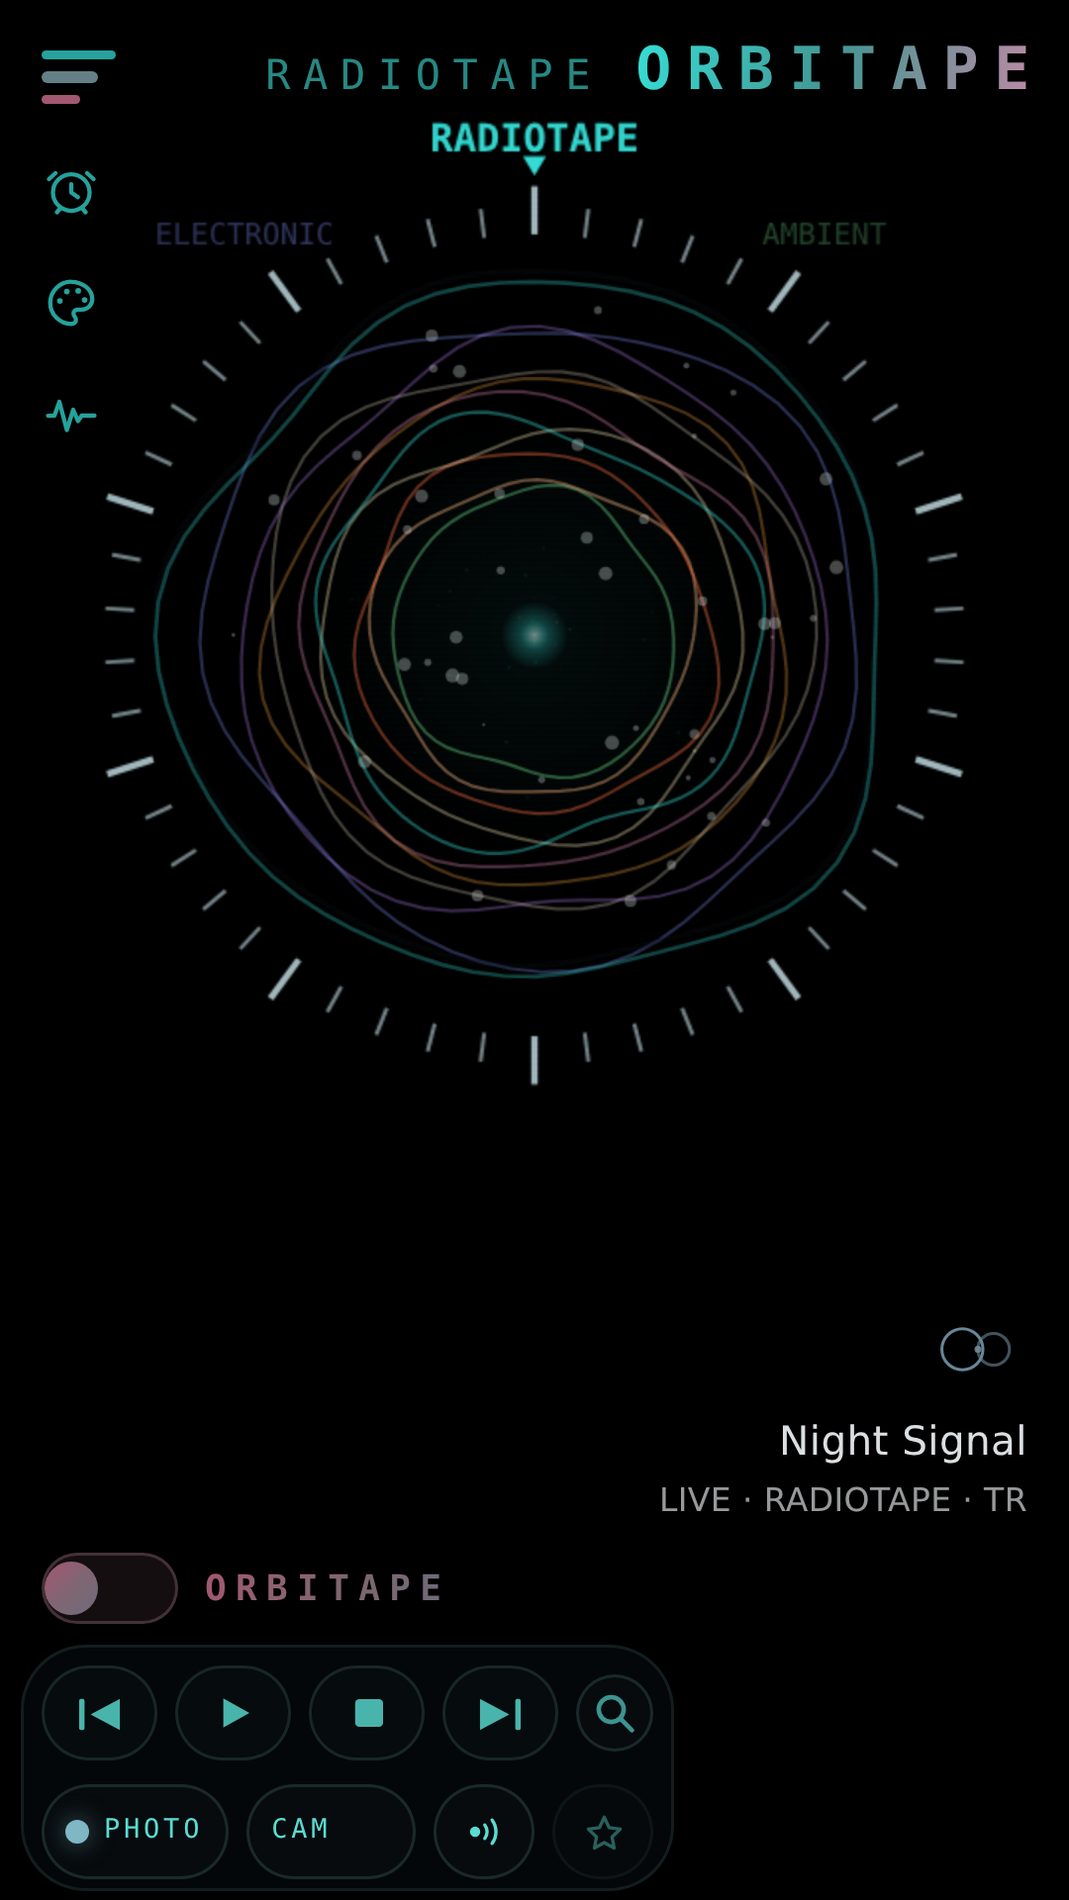
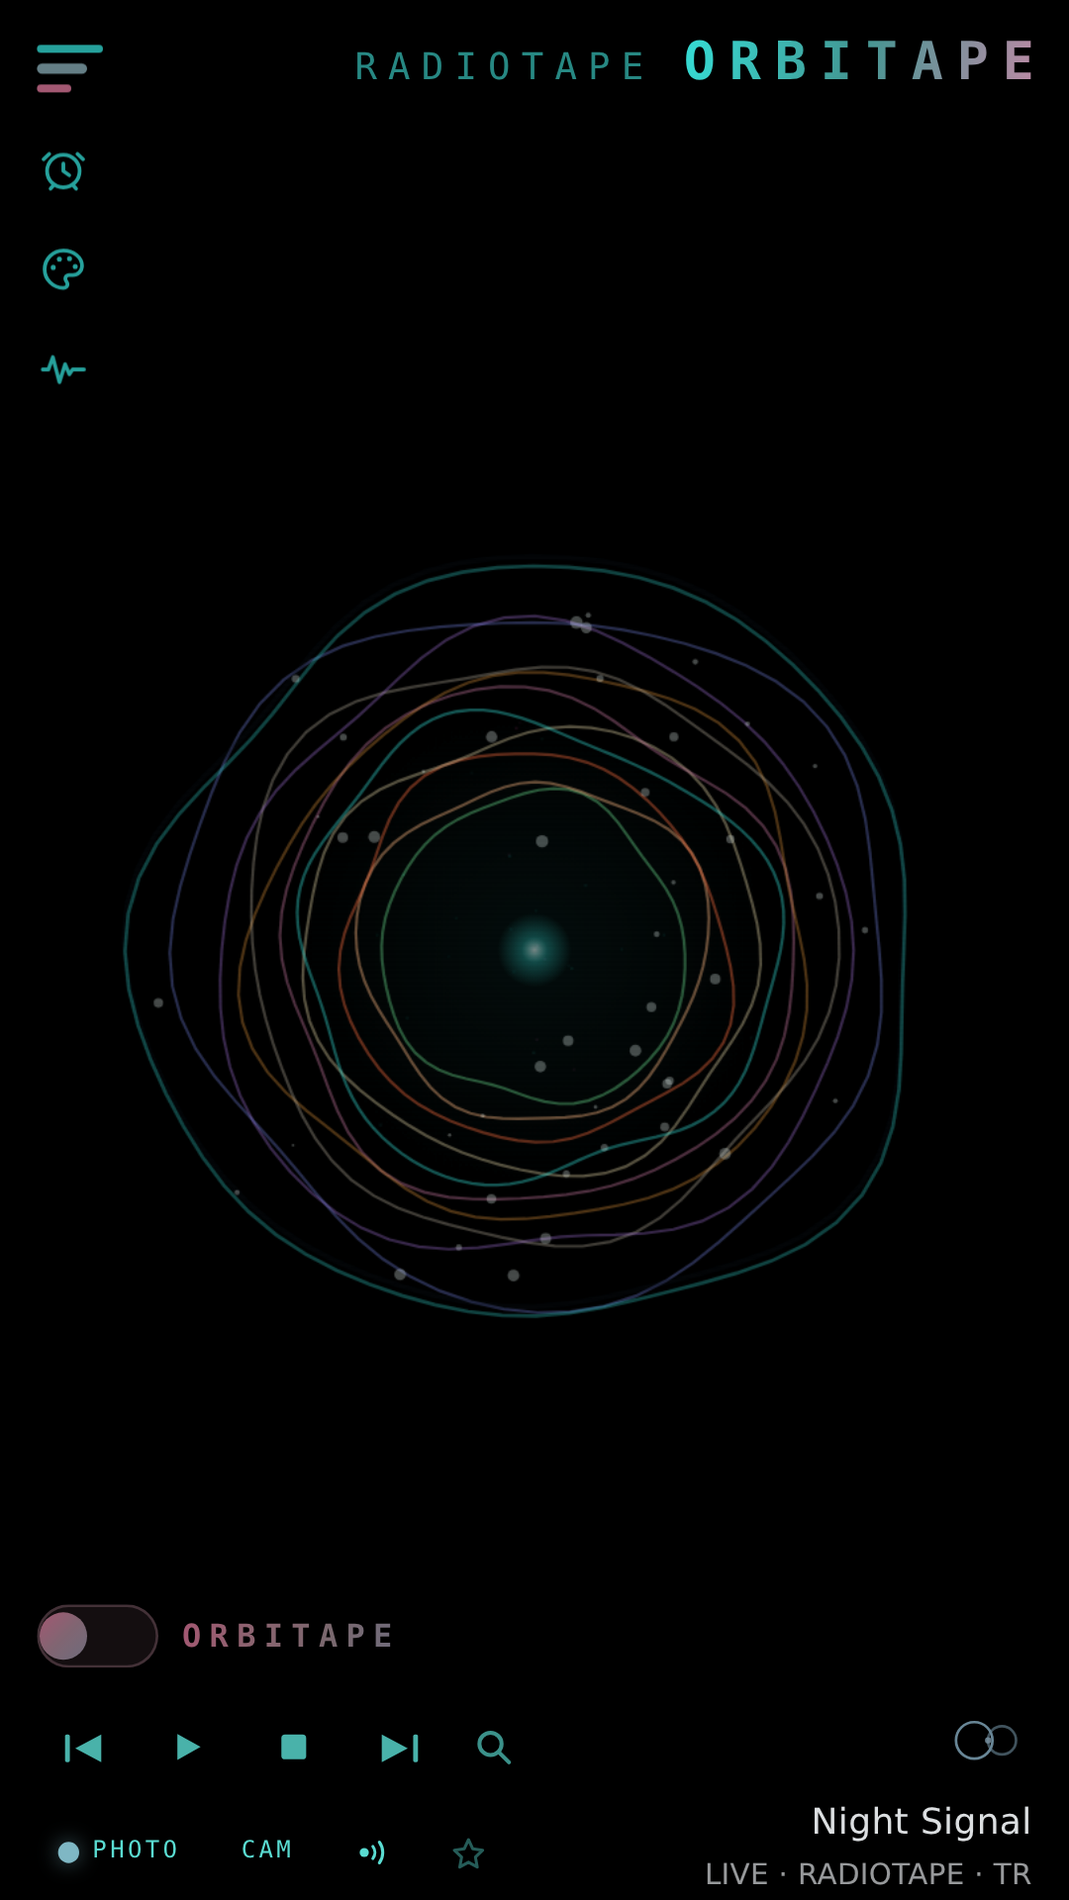
Aramada basilan satir, klavyede sabit alet, serit acilis
1. ARAMADAN SECIM CALISMIYORDU
   "Sarkiya basinca da hala duruyor." Karar parmagin KALKTIGI yerdeki
   satira bakiyordu; telefonda ilk dokunus klavyeyi kapatiyor, panel
   asagi kayiyor ve parmak baska satirda kalkiyor -- kosul tutmayinca
   hicbir sey olmuyordu. Artik karar BASILAN satirin (kaydirma
   degilse).

2. KLAVYE ACILINCA ALET KACIYORDU
   "Arama acilinca halka yukari kaciyor, cark daha da garip."
   iOS'ta klavye 100dvh'yi kuculttugu icin diskin boy tavani dusuyor
   ve bandin ortasi yukari kayiyordu. body.klavye altinda olcu
   100vh'ye baglandi. Telefonda dogrulanmali.

3. SKINS ONCE SERIT ACILIYOR
   "Ilk o kucuk penceremiz acilsin; sol kosesinde asagiya bir ok
   olsa." Panel serit olarak aciliyor, soldaki ▾ listeyi getiriyor.
   Serit arkasini KILITLEMIYOR -- pencereAc inert yapiyordu, bu kipte
   yanlisti.

4. MAGAZA KARELERI YENIDEN
   Sahneler: ana arayuz (halka), cark, skins, LILIES, CUTOUT, FX,
   uzaya acilma, HUMANS. Olcu 360x640 -> 405x720: 360'ta kunyeye
   118px'den az yer kalinca uygulama yigilma kipine geciyor ve alet
   220px yukari kayiyordu -- gercek telefonlarda o dal calismiyor.
   Cikti yine 1080x1920.

5. HAM BOY TAVANI 1105 -> 1110 KB
   Olculen sey kaynak dosya; kullaniciya inen brotli olcusu tavanin
   bin bayt altinda.

TESTLER: 756/756 · 18 · 111 · 19 · 118 · 19 — hepsi temiz.

diff --git a/araclar/galeri.js b/araclar/galeri.js
@@ -44,7 +44,19 @@ const TON   = fs.readFileSync(path.join(KOK, 'test', 'ton.wav'));
    adlarla ayri bir klasore yaziyor -- yanlis kare yuklenmesin diye
    secim burada, konsolda degil. */
 const OLCU_TABLO = {
-  telefon:  { w:360, h:640,  dsf:3, ek:'' },
+  /* ── 9 EYLUL: 360x640 -> 540x960 ─────────────────────────────
+     Ikisi de 1080x1920 uretiyor (Play 9:16 istiyor). Fark sunda:
+     360 genisliginde sag alt kunyeye 118px'den az yer kaliyor ve
+     uygulama HAKLI olarak yigilma kipine geciyor -- o kipte alet
+     220px yukari kayiyor. Gercek telefonlar 9:19.5, yani orada bu
+     dal hic calismiyor; magaza karesi olmayan bir hali gosteriyordu
+     (kullanicinin sozu: "halkayi uste kaymis sekilde aliyorsun,
+     hep bu hatali"). 540'ta kunye yan yana sigiyor ve alet ekranin
+     ortasinda -- kullanicinin telefonunda gordugu hal.
+     540 de denendi: yiginma yok ama disk 380px tavaninda kalinca
+     1080'lik karede kucuk duruyordu. 405'te disk 84vw = 340 ve
+     kareyi dolduruyor; dsf 8/3 ile cikti yine tam 1080x1920. */
+  telefon:  { w:405, h:720,  dsf:8/3, ek:'' },
   tablet7:  { w:600, h:960,  dsf:2, ek:'-tablet7' },
   tablet10: { w:800, h:1280, dsf:2, ek:'-tablet10' }
 };
@@ -306,7 +318,10 @@ for(const [dosya, raf, ad, ulke] of RAF_RADYO){
     dosya: dosya + '.png', mood:false,
     kunye:{ ad:ad, alt:'LIVE · ' + raf + ' · ' + ulke, kaynak:'', lisans:'' },
     veri: raf,
+    /* ANA ARAYUZ HALKAYLA: magazadaki ilk kare uygulamanin kendi
+       yuzu olmali. Cark ayri bir kare (22-cark). */
     kur:(r)=>{ try{ aileSec(r, true); }catch(e){}
+               try{ AYAR.merkez = 'halka'; if(window.merkezUygula) merkezUygula(); }catch(e){}
                try{ const n=document.getElementById('npUst'); if(n) n.classList.remove('var'); }catch(e){} }
   });
 }
@@ -388,19 +403,43 @@ SAHNELER.push({
    fx lemeler vs." Galeride ne deri ne frekans karesi vardi --
    uygulamanin en cok konusulan iki yuzu magazada hic gorunmuyordu.
    Ucu de radyo tarafinda: nebula yok. */
+/* GALERI ASAGI KAYDIRILIYOR. Kullanicinin sozu: "skinsler
+   alttakiler olsun." Ust sirada OFF/PAPER/LINEN gibi duz renkler
+   var; magazada gosterilecek olan asagidaki cizimli deriler. */
 SAHNELER.push({
-  dosya:'10-skins.png', mood:false, npGizle:true, bekle:1400,
-  kur:()=>{ try{ const f=document.getElementById('deriFirca'); if(f) f.click(); }catch(e){} }
+  dosya:'10-skins.png', mood:false, npGizle:true, bekle:1800,
+  kur:()=>{ try{ const f=document.getElementById('deriFirca'); if(f) f.click(); }catch(e){} },
+  eylem: async function(p){
+    await p.waitForTimeout(900);
+    await p.evaluate(()=>{ const g=document.querySelector('.dg-izgara');
+      if(g) g.scrollTop = Math.max(0, g.scrollHeight - g.clientHeight - 40); });
+    await p.waitForTimeout(1200);
+  }
 });
-SAHNELER.push({
-  dosya:'11-deri.png', mood:false, bekle:1400,
-  kunye:{ ad:'Slow Horizon', alt:'LIVE · AMBIENT · NL', kaynak:'', lisans:'' },
-  /* FIELDS: duz renkli degil ama sakin bir tablo -- diskin kendisi
-     kompozisyonun merkezi oldugu icin magazada anlatilacak sey de
-     bu. Halka o derilerde zaten acilmiyor. */
-  kur:()=>{ try{ AYAR.deri = 57; deriUygula();
-                 if(window.merkezUygula) merkezUygula(); }catch(e){} }
-});
+/* ── UYGULANMIS DERILER: DUZ RENKLILER ────────────────────────
+   Kullanicinin sozu: "skinsler secilmis 1-3 ornek, tek renk
+   olanlardan yukardaki mavi yesil pembe." Galerinin ust sirasindaki
+   duz renk deriler; disk bu derilerde tek renk bir daire oluyor ve
+   arayuzun tamami o renge donuyor -- magazada anlatilacak sey bu. */
+for(const [dosya, no, ad, alt] of [
+      ['11-deri-sky',   5, 'Slow Horizon',  'LIVE · AMBIENT · NL'],
+      ['11-deri-mint',  7, 'Velvet Hours',  'LIVE · LOUNGE & LOFI · FR'],
+      ['11-deri-blush', 8, 'Night Signal',  'LIVE · RADIOTAPE · TR']]){
+  SAHNELER.push({
+    dosya: dosya + '.png', mood:false, bekle:1400,
+    kunye:{ ad:ad, alt:alt, kaynak:'', lisans:'' },
+    /* NO 'veri' ILE GECIYOR: kur() sayfaya SERILESTIRILEREK
+       gonderiliyor, kapanis (closure) degiskeni yolda kayboluyor --
+       ilk yazimda AYAR.deri undefined oluyordu ve uc kare de duz
+       karanlik ciktu. */
+    veri: no,
+    /* DUZ RENK DERIDE MERKEZ 'YUVARLAK': uygulamada bu derilerde
+       galeri diskle aciliyor ve disk kompozisyonun merkezi. Halka
+       birakilirsa acik zemin uzerinde soluk kaliyor. */
+    kur:(n)=>{ try{ AYAR.deri = n; AYAR.merkez = 'yuvarlak'; deriUygula();
+                    if(window.merkezUygula) merkezUygula(); }catch(e){} }
+  });
+}
 SAHNELER.push({
   dosya:'12-frekans.png', mood:false, bekle:1400,
   kunye:{ ad:'Deep Techno', alt:'LIVE · ELECTRONIC · DE', kaynak:'', lisans:'' },
@@ -408,23 +447,92 @@ SAHNELER.push({
                  if(window.merkezUygula) merkezUygula(); }catch(e){} }
 });
 
+
+/* ── 9 EYLUL: MAGAZA ICIN YENI KARELER ────────────────────────────
+   Kullanicinin istegi: "cicekli skins olsun, fx kismi, yildiz
+   buyutme, cark radyo kanallari, HUMANS vs cesit, tatlili skinsler,
+   circle'li. Bir ana arayuz olsun sonra cesitler. Tutorials'li
+   olmasin sakin." */
+SAHNELER.push({
+  dosya:'22-cark.png', mood:false, bekle:1400,
+  kunye:{ ad:'Night Signal', alt:'LIVE · RADIOTAPE · TR', kaynak:'', lisans:'' },
+  kur:()=>{ try{ AYAR.merkez = 'cark'; if(window.merkezUygula) merkezUygula();
+                 if(window.carkTazele) carkTazele(); }catch(e){} }
+});
+SAHNELER.push({
+  dosya:'23-deri-lilies.png', mood:false, bekle:1800,
+  kunye:{ ad:'Slow Horizon', alt:'LIVE · AMBIENT · NL', kaynak:'', lisans:'' },
+  veri: 56,
+  kur:(n)=>{ try{ AYAR.deri = n; AYAR.merkez = 'yuvarlak'; deriUygula();
+                  if(window.merkezUygula) merkezUygula(); }catch(e){} }
+});
+SAHNELER.push({
+  dosya:'24-deri-cutout.png', mood:false, bekle:1800,
+  kunye:{ ad:'Velvet Hours', alt:'LIVE · LOUNGE & LOFI · FR', kaynak:'', lisans:'' },
+  veri: 58,
+  kur:(n)=>{ try{ AYAR.deri = n; AYAR.merkez = 'yuvarlak'; deriUygula();
+                  if(window.merkezUygula) merkezUygula(); }catch(e){} }
+});
+/* Yildizlar en ust kademede: ekran uzaya aciliyor (bkz. body.uzay). */
+/* Gecisin ORTASI yakalaniyor: deri hala hafif goruluyor, arkasi
+   uzaya acilmis. Bitmis hali duz karanlik ve anlatmiyor. */
+SAHNELER.push({
+  dosya:'25-uzay.png', mood:false, bekle:2600,
+  kunye:{ ad:'Slow Horizon', alt:'LIVE · AMBIENT · NL', kaynak:'', lisans:'' },
+  kur:()=>{ try{ AYAR.deri = 56; AYAR.merkez = 'halka'; deriUygula();
+                 if(window.merkezUygula) merkezUygula(); }catch(e){}
+            try{ setTimeout(function(){ AYAR.yildiz = 4; AYAR.yildizIsik = 2;
+                 if(window.uzayUygula) uzayUygula(); }, 200); }catch(e){} }
+});
+
+/* ── ARAMA (BUYUTEC) ──────────────────────────────────────────────
+   Kullanicinin istegi: buyutece basilinca cikan istasyon listesinden
+   de bir kare. Havuz sahte ve kamu mali alan adlariyla dolu (bkz.
+   ADLAR) -- baskasinin markasi fotografa girmiyor. */
+SAHNELER.push({
+  dosya:'21-arama.png', mood:false, npGizle:true, bekle:600,
+  eylem: async function(p){
+    await p.evaluate(()=>{ try{ if(typeof araAc === 'function') araAc(); 
+      else { const b=document.getElementById('araCizgi'); if(b) b.click(); } }catch(e){} });
+    await p.waitForTimeout(700);
+    await p.evaluate(()=>{ const g=document.getElementById('araGiris');
+      if(g){ g.focus(); g.value='rain'; g.dispatchEvent(new Event('input',{bubbles:true})); } });
+    await p.waitForTimeout(1600);
+  }
+});
+
 const HEPSI = process.env.GALERI_HEPSI === '1';
+/* Tek tek kare kosmak icin: GALERI_SADECE=11-deri-sky.png,... */
+const SADECE = (process.env.GALERI_SADECE || '').split(',').filter(Boolean);
 /* MAGAZAYA GIDEN SEKIZ, sirasiyla: alet · bir tur · deri galerisi ·
    uygulanmis deri · frekans · FX · arsiv tarafi · nasil calisiyor.
    Sekiz kare bir hikaye anlatiyor; sekiz ayni carkin farkli rengi
    degil. FX ve arsiv karelerinde nebula var -- kullanici bir
    zamanlar nebulasiz istemisti ama FX'i acikca istedi, ve FX
    yalnizca o tarafta yasiyor. */
-const MAGAZA_SIRA = ['01-radyo-radiotape.png', '03-radyo-jazz.png',
-  '10-skins.png', '11-deri.png', '12-frekans.png',
-  '09-fx-ana.png', '15-arsiv-orbitape.png', '09-tur.png'];
+/* 8 Eylul: TUR KARESI CIKARILDI. Kullanicinin sozu: "tutorials
+   gorunmesin". Yerine ikinci bir FX karesi ve bir kanal karesi
+   geldi -- magazada anlatilan sey uygulamanin kendisi, ogretici
+   degil. */
+/* 8 Eylul, son hali:
+     - FREKANS karesi cikti: o secenek skins penceresinden kaldirildi
+       ("fazi yapamadin, sil lutfen"), artik secilemeyen bir sey
+       magazada gosterilmez.
+     - ARAMA karesi cikti: sonuc listesi GERCEK istasyon adlariyla
+       doluyor (Nature Radio, DrGnu ...) -- baskasinin markasi bizim
+       magaza gorselimizde duramaz.
+     - Yerlerine ucuncu duz renk deri ve arsiv tarafi geldi. */
+const MAGAZA_SIRA = ['01-radyo-radiotape.png', '22-cark.png',
+  '10-skins.png', '23-deri-lilies.png', '24-deri-cutout.png',
+  '09-fx-ana.png', '25-uzay.png', '19-arsiv-humans.png'];
 const SECIM = MAGAZA
   ? MAGAZA_SIRA.map((ad, i)=>{
       const s = SAHNELER.find(x=>x.dosya === ad);
       if(!s) throw new Error('magaza sahnesi yok: ' + ad);
       return Object.assign({}, s, { dosya: 'play-' + (i+1) + '-' + ad.replace(/^\d+-/, '') });
     })
-  : (HEPSI ? SAHNELER : SAHNELER.filter(s=>!s.mood));
+  : (SADECE.length ? SAHNELER.filter(s=>SADECE.includes(s.dosya))
+     : (HEPSI ? SAHNELER : SAHNELER.filter(s=>!s.mood)));
 
 (async()=>{
   fs.mkdirSync(CIKIS, {recursive:true});

diff --git a/test/saglik.js b/test/saglik.js
@@ -653,8 +653,14 @@ const yavas = (ad) => { atlanan.push(ad); return true; };
             f + ' ' + Math.round(bro(fs.readFileSync(_yayin(f)))/1024) + 'K').join(' + ')
            + ' (toplam ' + Math.round(_iuBoy/1024) + ' KB)')
         : 'istek uzerine inen modul yok');
-    /* 1100 -> 1105 KB: bkz. ILK_CIZIM_TAVAN notu. */
-    K('Ham boy < 1105 KB', dosyaBoy < 1105*1024,
+    /* 1100 -> 1105 -> 1110 KB. Bu olcu KAYNAK dosyanin boyu, yani
+       aciklamalar dahil; kullaniciya inen sey degil (o brotli olcusu
+       ve tavanin bin bayt altinda). 9 Eylul'de eklenen isler --
+       SOUNDS bolumu, uzay gecisi, galerinin serit acilmasi, klavye
+       acikken alet olcusu, aramada basilan satirin secilmesi -- ve
+       her birinin NEDEN yazisi bu dosyada duruyor. Tavan bir koruma;
+       islev eklenince yaziyla yukseltiliyor, sessizce degil. */
+    K('Ham boy < 1110 KB', dosyaBoy < 1110*1024,
       Math.round(dosyaBoy/1024) + ' KB kaynak, %'
       + Math.round(100 - br*100/dosyaBoy) + ' sikisiyor (aciklamalar dahil)');
   }
@@ -10173,6 +10179,15 @@ const yavas = (ad) => { atlanan.push(ad); return true; };
         c.geldi = !!window.DERI_GALERI_HAZIR;
         c.acik = !!(window.deriGaleriAcik && deriGaleriAcik());
         const kap = document.getElementById('deriGaleri');
+        /* 9 Eylul: GALERI ARTIK SERIT OLARAK ACILIYOR (kullanicinin
+           istegi: "ilk o kucuk penceremiz acilsin, isteyen listeyi
+           acar"). Izgara olculeri once listeyi acmayi gerektiriyor --
+           soldaki ▾ (dg-tus.buyut) tam da bunun icin var. */
+        c.seritAcildi = kap.classList.contains('serit');
+        const okTus = kap.querySelector('.dg-tus.buyut');
+        c.listeOku = !!okTus;
+        if(okTus){ okTus.click(); await bek(260); }
+        c.izgaraAcildi = !kap.classList.contains('serit');
         c.kareSayisi = kap ? kap.querySelectorAll('.dg-kare').length : 0;
         c.kareDogru = c.kareSayisi === DERILER.length + 1;
         /* kareler ust uste binmiyor: ikinci karenin tepesi birincinin altindan sonra */
@@ -10327,11 +10342,17 @@ const yavas = (ad) => { atlanan.push(ad); return true; };
         /* FIRCA ANAHTAR: kapali -> tam -> kapali. Kucultme basligin
            isi; firca ikinci dokunusta kapatiyor (kullanici: "tekrar
            fircaya basarsam kapanmali"). */
-        f.click(); await bek(200); c.d1 = deriGaleriAcik() && !kap.classList.contains('serit');
+        /* 9 Eylul: firca artik SERIT aciyor (izgara degil). Olculen
+           sey degismedi -- "acildi mi": panel gorunur ve serit
+           kipinde. Izgaraya gecisi soldaki ▾ yapiyor, o ayri
+           olculuyor (bkz. "Galeri serit olarak aciliyor"). */
+        f.click(); await bek(200); c.d1 = deriGaleriAcik() && kap.classList.contains('serit');
         f.click(); await bek(200); c.d2 = !deriGaleriAcik();
         /* YUKARI KAYDIRMA KAPATIR (3 Eylul): "vazgectim, o an yukari
            scroll yaptigimda kapanmali tamamen o pencere." */
         f.click(); await bek(300);
+        /* Yukari kaydirma olcusu izgarada anlamli: once listeyi ac. */
+        { const ok2 = kap.querySelector('.dg-tus.buyut'); if(ok2){ ok2.click(); await bek(250); } }
         const izgara = kap.querySelector('.dg-izgara'); if(izgara) izgara.scrollTop = 0;
         const kb2 = kap.getBoundingClientRect();
         const kay = (t, y)=>kap.dispatchEvent(new PointerEvent(t, {bubbles:true, cancelable:true, pointerId:41, pointerType:'touch', isPrimary:true, buttons:(t==='pointerup'?0:1), clientX:kb2.left+kb2.width/2, clientY:y}));
@@ -10359,7 +10380,10 @@ const yavas = (ad) => { atlanan.push(ad); return true; };
     });
     const oz = Object.keys(g).filter(k => g[k] !== true).map(k => k + '=' + g[k]).join(' ');
     K('Firca var; siralama tutamak > hold > saat > firca', g.tusVar && g.sira, oz || 'yigin dogru');
-    K('Galeri istek uzerine iniyor, butun deriler + OFF', g.geldi && g.acik && g.kareDogru && g.binmiyor, oz || g.kareSayisi + ' kare');
+    K('Galeri serit olarak aciliyor, ▾ listeyi aciyor',
+     g.seritAcildi === true && g.listeOku === true && g.izgaraAcildi === true,
+     oz || 'once serit, ok ile izgara');
+  K('Galeri istek uzerine iniyor, butun deriler + OFF', g.geldi && g.acik && g.kareDogru && g.binmiyor, oz || g.kareSayisi + ' kare');
     K('Kareye dokunmak deriyi uygular, galeri acik kalir', g.secildi, oz || 'deri 2');
     K('Cizimli derinin karesi gercekten ciziliyor', g.tuvalDolu, oz || 'tuval dolu');
     K('Serit kipi: ince, ekrani kapatmaz, oklar deri degistirir', g.serit && g.arkaDokunulur && g.ileri && g.geri && g.adYazisi && g.kucultTusuYok, oz || 'serit, kucultme tusu yok');

diff --git a/deri_galeri.js b/deri_galeri.js
@@ -135,11 +135,13 @@ try{ window.DERI_GALERI_BASLADI = true; }catch(e){}
        Ad ne olursa olsun sutunlar oynamiyor; uzun ad kesilip uc
        nokta ile bitiyor (asagida). Oklar da kenara yapismiyor,
        adin iki yaninda -- basparmak ayni yeri buluyor. */
-    "#deriGaleri.serit .dg-bas{display:grid;grid-template-columns:34px minmax(90px,152px) 34px 34px 34px;align-items:center;gap:2px;padding:5px 12px 4px;flex-wrap:nowrap;justify-content:center}",
+    "#deriGaleri.serit .dg-bas{display:grid;grid-template-columns:26px 34px minmax(80px,148px) 34px 34px;align-items:center;gap:2px;padding:5px 12px 4px;flex-wrap:nowrap;justify-content:center}",
     "#deriGaleri.serit .dg-secili{font-size:0.9375rem;letter-spacing:.08em;min-width:0;max-width:100%;text-align:center;padding:0 4px;overflow:hidden;text-overflow:ellipsis;white-space:nowrap}",
     "#deriGaleri.serit .dg-tus{width:34px;height:32px;font-size:0.9375rem}",
     /* ▦ ile ✕ oklardan bir tik uzakta: yanlislikla kapatma azalsin. */
-    "#deriGaleri.serit .dg-tus.buyut{margin-left:8px}",
+    /* Liste oku EN SOLDA: seridin liste oldugunu soyleyen tek
+       isaret o. Dar (26px) ve sessiz -- tus degil, ipucu. */
+    "#deriGaleri.serit .dg-tus.buyut{order:-1;margin:0;width:26px;opacity:.7}",
     /* Merkez secici KENDI SATIRINDA: tam genislik, ortalanmis,
        dordu de ayni puntoda ve hicbiri kesilmiyor. */
     /* Merkez secici HEP ayni yerde: izgaranin tam genisliginde,
@@ -354,7 +356,7 @@ try{ window.DERI_GALERI_BASLADI = true; }catch(e){}
     bas.appendChild(halkaTus);
     /* Kucultme tusu (▁) KALKTI: firca tekrar basilinca serit oluyor
        (degistir). ▦ seritte kaliyor: tam galeriye donus. */
-    bas.appendChild(tus('buyut', 'Show all skins', '▦', buyut));
+    bas.appendChild(tus('buyut', 'Show all skins', '▾', buyut));
     bas.appendChild(tus('kapat', 'Close', '✕', kapa));
     /* ── MERKEZ SECICI (4 Eylul) ────────────────────────────────
        "minimize modunda halka, yuvarlak, cark ve faz olsun ...
@@ -518,12 +520,21 @@ try{ window.DERI_GALERI_BASLADI = true; }catch(e){}
           try{ if(typeof window.merkezUygula === 'function') window.merkezUygula(); }catch(e2){ yut(e2); }
         }
       }catch(e){ yut(e); }
-      kap.classList.remove('serit');
+      /* 9 Eylul: ONCE SERIT ACILIYOR. Kullanicinin sozu: "ilk o
+         kucuk penceremiz acilsin; sol kosesinde asagiya bir ok olsa,
+         belli eden liste oldugunu. Isteyen listeyi acar." Tam izgara
+         secmeye calistigin ekrani ortuyordu. */
+      kap.classList.add('serit');
       kap.hidden = false;
       fircaIsaret(true);
       isaretle(true);
+      seritIsaret();
       cizimleriCiz();
-      try{ if(typeof pencereAc === 'function') pencereAc(kap, kap.querySelector('.dg-kare[aria-pressed="true"]')); }catch(e){ yut(e); }
+      /* SERIT EKRANI KAPATMIYOR: pencereAc arkasini inert yapiyor ve
+         bu kipte yanlis olurdu -- serit ince bir cubuk, arkasindaki
+         disk dokunulabilir kalmali (bkz. kucult). Izgaraya gecince
+         (buyut) inert oraya geliyor. */
+      try{ const t = kap.querySelector('.dg-tus.ileri'); if(t) t.focus(); }catch(e){ yut(e); }
     }catch(e){ yut(e); }
   }
   function kucult(){

diff --git a/index.html b/index.html
@@ -201,6 +201,15 @@
                        - 2 * var(--tepe-pay)) / 1.34);
     width:min(78vw,380px,calc(100dvh - var(--ust-rez) - var(--alt-rez)),var(--alet-tavan));
     aspect-ratio:1;z-index:10;}
+  /* KLAVYE ACIKKEN ALET OYNAMIYOR (9 Eylul). iOS'ta klavye acilinca
+     100dvh kuculuyor; aletin boy tavani ona bagli oldugu icin disk
+     kuculup yukari kaciyordu ("arama acilinca halka yukari kaciyor,
+     cark daha da garip"). Klavye acikken olcu 100vh -- vh klavyeden
+     etkilenmiyor. */
+  body.klavye .disk{
+    --alet-tavan:calc((var(--ust-rez) + 100vh - var(--alt-rez)
+                       - 2 * var(--tepe-pay)) / 1.34);
+    width:min(78vw,380px,calc(100vh - var(--ust-rez) - var(--alt-rez)),var(--alet-tavan));}
   /* SERIT ACIKKEN ALET YER ACIYOR. Gerekce deri_galeri.js'te
      (seritIsaret): simgelerin alti ile carkin tepesi arasindaki bant
      seridi okunur puntoda tasimiyor; cubuk acilinca icerigin ona yer
@@ -4429,7 +4438,7 @@
   function yutSil(){
     try{ _yutDefter = {}; localStorage.removeItem(YUT_ANAHTAR); }catch(_){}
   }
-  var ORB_SURUM = '2026.09.08';
+  var ORB_SURUM = '2026.09.09';
   /* ── OLCUM: KAPALIYKEN TEK BAYT GITMIYOR ─────────────────────────
      Yutulan hata defteri cihazda birikiyor ve DIAGNOSTICS satirinda
      gorunuyor; ama kimse kopyalayip postalamazsa sahada ne bozuldugunu
@@ -5971,6 +5980,7 @@
   function uzayUygula(){
     try{ document.body.classList.toggle('uzay', (AYAR.yildiz|0) === 4); }catch(e){ _yut(e); }
   }
+  try{ window['uzayUygula'] = uzayUygula; }catch(e){ _yut(e); }
   function deriUygula(){
     try{ uzayUygula(); }catch(e){ _yut(e); }
     try{
@@ -17152,12 +17162,14 @@
     const b = _stBas; _stBas = null;
     if(!b) return;
     try{
-      const t = /** @type {any} */ (e.target);
-      const st = t && t.closest ? t.closest('.st') : null;
-      if(!st || st !== b.st) return;
+      /* 9 Eylul: KARAR BASILAN SATIRIN. Once parmagin KALKTIGI
+         yerdeki satirin da ayni olmasi gerekiyordu; telefonda ilk
+         dokunus klavyeyi kapatiyor, panel kayiyor ve parmak baska
+         satirda kalkiyor -- hicbir sey olmuyordu ("bastim,
+         kapanmadi"). Kaydirma degilse basilan satir caliyor. */
       if(Math.abs(e.clientX - b.x) > 12 || Math.abs(e.clientY - b.y) > 12) return;
       e.stopPropagation();
-      araCal(parseInt(st.dataset.i, 10));
+      araCal(parseInt(b.st.dataset.i, 10));
     }catch(_){ _yut(_); }
   });
   araSonuc.addEventListener('click', e=>{
